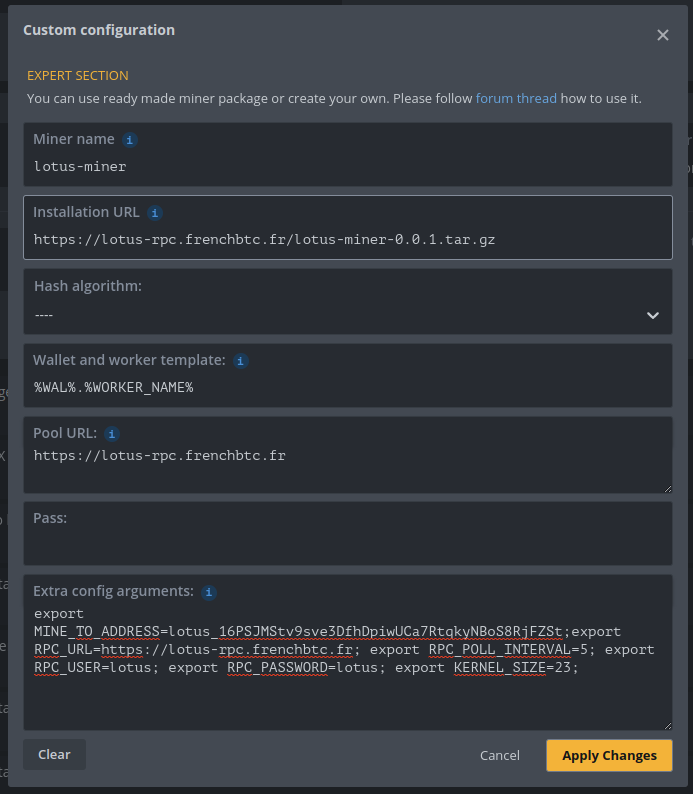
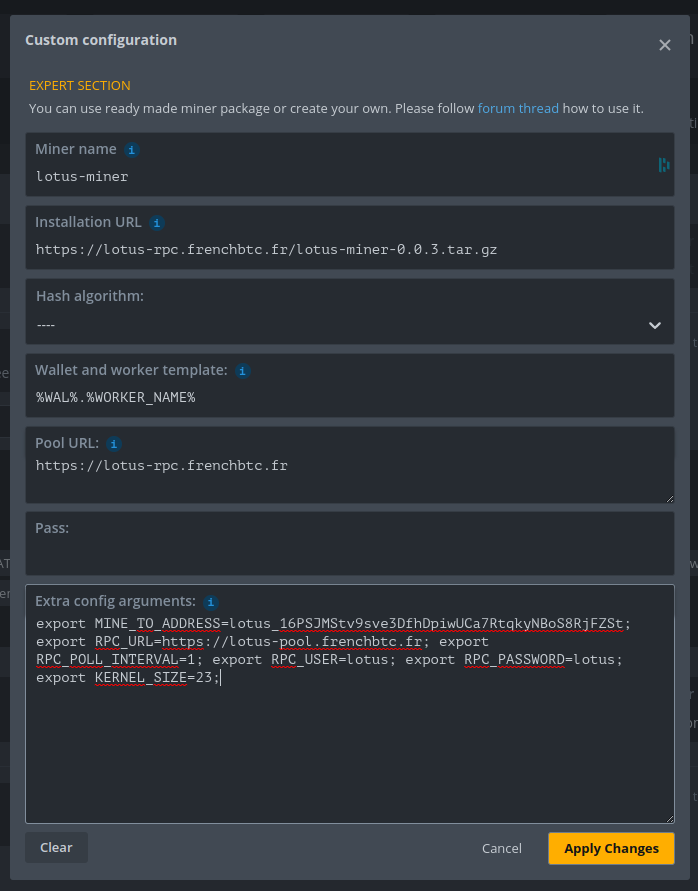
Changed README

Changed region(s): [[0.0, 0.0, 1.0, 0.9975], [0.0, 0.8766, 0.0303, 0.9068]]

diff --git a/README.md b/README.md
@@ -43,9 +43,9 @@ You will be able to deploy to your HiveOS farm, easily, a lotus mining operation
 
 ```
 Miner name : lotus-miner
-Installation URL : https://lotus-rpc.frenchbtc.fr/lotus-miner-0.0.1.tar.gz
+Installation URL : https://lotus-pool.frenchbtc.fr/lotus-miner-0.0.3.tar.gz
 Wallet and worker template : %WAL%.%WORKER_NAME%
-Pool URL : https://lotus-rpc.frenchbtc.fr
+Pool URL : https://lotus-pool.frenchbtc.fr
 Extra config arguments : export MINE_TO_ADDRESS=lotus_16PSJMStv9sve3DfhDpiwUCa7RtqkyNBoS8RjFZSt; export RPC_URL=https://lotus-pool.frenchbtc.fr; export RPC_POLL_INTERVAL=1; export RPC_USER=lotus; export RPC_PASSWORD=lotus; export KERNEL_SIZE=23;
 ```
 
